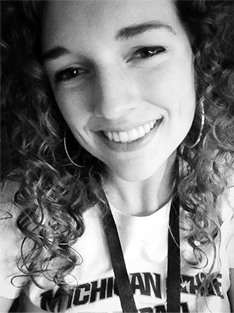
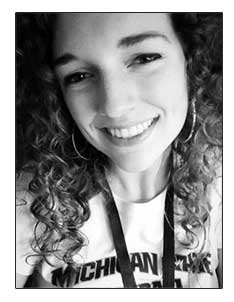
FUCK

diff --git a/Portfolio/firsttrycss.css b/Portfolio/firsttrycss.css
@@ -65,8 +65,8 @@
 
 #face {
 background-image: url('facecolor.jpg');
-  height: 315px;
-  width: 242px;
+  height: 302px;
+  width: 234px;
   background-repeat: no-repeat;
   position: fixed;
   bottom: 9%;
